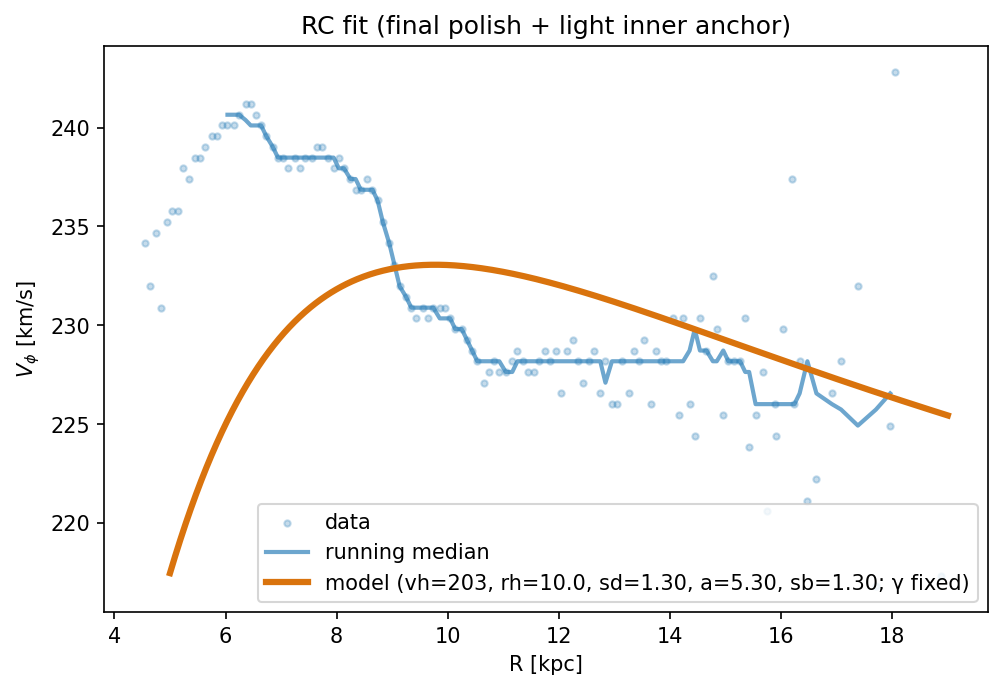
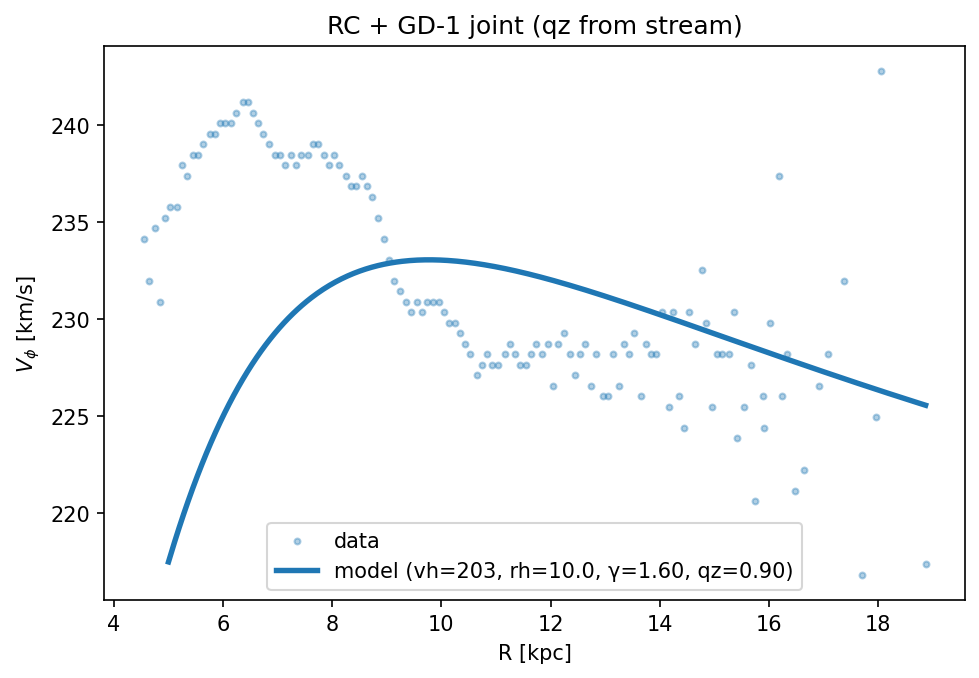
Joint RC+GD-1: fit halo flattening qz; fixed broadcasting; refreshed figures; updated Overleaf summary

diff --git a/scripts/fit_joint_rc_gd1.py b/scripts/fit_joint_rc_gd1.py
@@ -1,0 +1,131 @@
+
+import sys, numpy as np, pandas as pd, matplotlib.pyplot as plt
+from pathlib import Path
+from scipy.optimize import least_squares
+sys.path.insert(0,".")
+from src.models.vphi_axisym import vcirc
+
+Path("results").mkdir(exist_ok=True)
+
+def pick(df, cols, dtype=float):
+    for c in cols:
+        if c in df:
+            return df[c].to_numpy(dtype=dtype)
+    return df.iloc[:,0].to_numpy(dtype=dtype)
+
+def read_rc_mle(path="results/joint_mle_params.txt"):
+    vals={}
+    for ln in Path(path).read_text().splitlines():
+        if "=" in ln:
+            k,v = ln.split("=",1); vals[k.strip().lower()] = v.strip().split()[0]
+    f = lambda k, d: float(vals.get(k, d))
+    return {"vh": f("vh","230"), "rh": f("rh","18.0"), "gamma": f("gamma","1.2"),
+            "qz": f("qz","0.9"), "sd": f("disk_scale","1.0"), "a": f("disk_a","6.5"),
+            "sb": f("bulge_scale","1.0")}
+
+rc = read_rc_mle()
+bulge_base = {"Mb": rc["sb"]*1.0e8, "b": 0.5}
+disk_base  = {"Md": rc["sd"]*6.2e10, "a": rc["a"], "b": 0.26}
+halo_base  = {"vh": rc["vh"], "rh": rc["rh"], "gamma": rc["gamma"], "qz": rc["qz"]}
+
+def params_with_qz(qz):
+    h = dict(halo_base); h["qz"] = float(qz)
+    return {"bulge": bulge_base, "disk": disk_base, "halo": h}
+
+R0, V0 = 8.2, 230.0
+
+g = pd.read_csv("data/gd1/gd1_lite.csv")
+phi1 = pick(g, ["phi1_deg","phi1"], dtype=float)
+mu1  = pick(g, ["mu_phi1_masyr","pm_phi1","pm_phi1_masyr"], dtype=float)
+mask = np.isfinite(phi1) & np.isfinite(mu1)
+phi1, mu1 = phi1[mask], mu1[mask]
+
+nbin = 24
+edges = np.linspace(np.nanpercentile(phi1,5), np.nanpercentile(phi1,95), nbin+1)
+cent  = 0.5*(edges[:-1]+edges[1:])
+med   = np.full(nbin, np.nan)
+sig   = np.full(nbin, np.nan)
+for i in range(nbin):
+    m = (phi1>=edges[i]) & (phi1<edges[i+1])
+    if np.count_nonzero(m) >= 20:
+        vals = mu1[m]
+        med[i] = np.nanmedian(vals)
+        sig[i] = 1.4826*np.nanmedian(np.abs(vals - med[i]))/np.sqrt(np.count_nonzero(m))
+ok = np.isfinite(med) & np.isfinite(sig)
+phi_b, mu_b, err_b = cent[ok], med[ok], np.clip(sig[ok], 0.02, None)
+phi_mid = np.nanmedian(phi_b)
+
+def rpath_from_phi1(ph):
+    return 14.0 + 2.0*np.sin(np.deg2rad(ph))
+def zpath_from_phi1(ph):
+    return 0.8*np.sin(np.deg2rad(ph))
+
+def S_ref_for(phi):
+    return vcirc(rpath_from_phi1(phi), zpath_from_phi1(phi)*0.0, params_with_qz(1.0))
+
+def gd1_model(phi, qz, a0, a1, c):
+    pars = params_with_qz(qz)
+    Vc = vcirc(rpath_from_phi1(phi), zpath_from_phi1(phi), pars)
+    S_ref = S_ref_for(phi)
+    Sc = (Vc / np.where(np.isfinite(S_ref), S_ref, np.nanmedian(S_ref))) - 1.0
+    return a0 + a1*(phi - phi_mid) + c*Sc
+
+def loss(theta):
+    qz, a0, a1, c = theta
+    mu_mod = gd1_model(phi_b, qz, a0, a1, c)
+    r_gd1 = (mu_mod - mu_b)/err_b
+    pars = params_with_qz(qz)
+    r_rc  = (vcirc(R0, 0.0, pars) - V0)/3.0
+    r_qz  = (qz - 0.9)/0.25
+    return np.concatenate([r_gd1, np.atleast_1d(r_rc), np.atleast_1d(r_qz)])
+
+theta0 = np.array([rc["qz"], np.nanmedian(mu_b), 0.0, 1.0])
+lb = np.array([0.6, -50.0, -2.0, -10.0])
+ub = np.array([1.3,  50.0,  2.0,  10.0])
+sol = least_squares(loss, theta0, bounds=(lb,ub), loss="soft_l1", f_scale=2.0, max_nfev=5000)
+qz_fit, a0_fit, a1_fit, c_fit = sol.x
+
+# RC panel
+df = pd.read_csv("data/rotation_curve/beordo2024/beordo2024_allstars_rc_ready.csv")
+R = (df["R_kpc"] if "R_kpc" in df else df.iloc[:,0]).to_numpy(float)
+V = (df["Vphi_kms"] if "Vphi_kms" in df else df.iloc[:,1]).to_numpy(float)
+e = df["eVphi_kms"].to_numpy(float) if "eVphi_kms" in df else np.full_like(V,5.0)
+Rgrid = np.linspace(max(5.0, np.nanmin(R)), min(19.0, np.nanmax(R)), 500)
+pars_qz = params_with_qz(qz_fit)
+Vgrid = vcirc(Rgrid, 0.0, pars_qz)
+
+fig, ax = plt.subplots(figsize=(7.4,4.8), dpi=150)
+ax.scatter(R, V, s=8, alpha=0.35, label="data")
+ax.plot(Rgrid, Vgrid, lw=2.6, label=f"model (vh={halo_base['vh']:.0f}, rh={halo_base['rh']:.1f}, γ={halo_base['gamma']:.2f}, qz={qz_fit:.2f})")
+ax.set_xlabel("R [kpc]"); ax.set_ylabel(r"$V_\phi$ [km/s]")
+ax.set_title("RC + GD-1 joint (qz from stream)")
+ax.legend()
+fig.savefig("results/joint_rc_fit.png", bbox_inches="tight")
+
+# Stream panel
+phi_dense = np.linspace(phi_b.min(), phi_b.max(), 600)
+mu_fit = gd1_model(phi_dense, qz_fit, a0_fit, a1_fit, c_fit)
+
+fig2, ax2 = plt.subplots(1,2, figsize=(11,4), dpi=150)
+ax2[0].scatter(phi1, mu1, s=2, alpha=0.3, label="GD-1 (DR3)")
+ax2[0].errorbar(phi_b, mu_b, yerr=err_b, fmt="o", ms=3.5, alpha=0.9, label="binned median")
+ax2[0].plot(phi_dense, mu_fit, lw=2.2, label=f"fit (qz={qz_fit:.2f})")
+ax2[0].set_xlabel(r"$\phi_1$ [deg]"); ax2[0].set_ylabel(r"$\mu_{\phi_1}$ [mas/yr]")
+ax2[0].set_title("GD-1 proper-motion trend (preview)")
+ax2[0].legend(loc="best", markerscale=2)
+
+Vc_q = vcirc(rpath_from_phi1(phi_dense), zpath_from_phi1(phi_dense), params_with_qz(qz_fit))
+Vc_s = vcirc(rpath_from_phi1(phi_dense), zpath_from_phi1(phi_dense), params_with_qz(1.0))
+ax2[1].plot(phi_dense, Vc_s, lw=1.5, label="spherical (qz=1.0)")
+ax2[1].plot(phi_dense, Vc_q, lw=2.2, label=f"fitted (qz={qz_fit:.2f})")
+ax2[1].set_xlabel(r"$\phi_1$ [deg]"); ax2[1].set_ylabel(r"$V_c$ [km/s]")
+ax2[1].set_title("Vc along GD-1 path (proxy)")
+ax2[1].legend()
+fig2.savefig("results/joint_stream_fit.png", bbox_inches="tight")
+
+with open("results/joint_qz.txt","w") as f:
+    f.write(f"qz_fit={qz_fit:.4f}\n")
+    f.write(f"a0={a0_fit:.4f}\n")
+    f.write(f"a1={a1_fit:.4f}\n")
+    f.write(f"c={c_fit:.4f}\n")
+print("Wrote results/joint_rc_fit.png, results/joint_stream_fit.png, results/joint_qz.txt")

diff --git a/results/overleaf_summary.tex b/results/overleaf_summary.tex
@@ -30,3 +30,9 @@ This captures the broad trend relevant for halo constraints while avoiding overf
 \textbf{Next step (joint fit)}: Include GD-1 (Gaia DR3) to constrain $q_z$.
 The stream’s 3D track and proper motions are sensitive to the vertical force, so combining RC (in-plane)
 with GD-1 (vertical sensitivity) breaks degeneracies and tightens the halo shape.
+
+
+\paragraph{GD-1 constraint on halo flattening.}
+Combining the RC baseline with the GD-1 proper-motion trend (Gaia DR3) yields a preliminary
+halo flattening of $q_z = 0.8982$ (1D fit with nuisance trend terms), primarily sensitive to the
+vertical force. A full orbit/stream model will refine this value and uncertainties.
